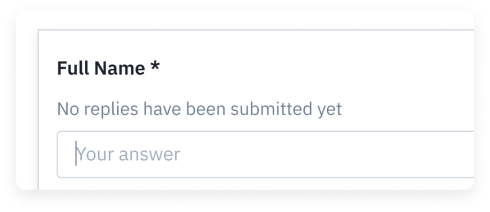
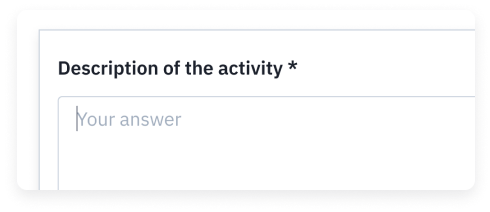
[feat/ch1231] (WIP) Added new type SHORT_TEXT
Compose site is done, need to fix the recipient view

diff --git a/client/components/petition-compose/PetitionFieldTypeSelectDropdown.tsx b/client/components/petition-compose/PetitionFieldTypeSelectDropdown.tsx
@@ -53,6 +53,7 @@ export const PetitionFieldTypeSelect = chakraForwardRef<
 
 export const FIELD_TYPES: PetitionFieldType[] = [
   "FILE_UPLOAD",
+  "SHORT_TEXT",
   "TEXT",
   "SELECT",
   "DYNAMIC_SELECT",
@@ -238,6 +239,7 @@ export const PetitionFieldTypeSelectDropdown = chakraForwardRef<
                 },
                 { type: activeTypeLabel }
               )}
+              loading="eager"
               src={`${process.env.NEXT_PUBLIC_ASSETS_URL}/static/images/field-types/${activeType}_${locale}.png`}
             />
           </AspectRatio>
@@ -253,7 +255,26 @@ export const PetitionFieldTypeSelectDropdown = chakraForwardRef<
             ) : activeType === "TEXT" ? (
               <FormattedMessage
                 id="component.petition-field-type-select-dropdown.text-description"
-                defaultMessage="Obtain written information that is not stored in documents or other files."
+                defaultMessage="Allow the recipient to write down everything they need.<i>e.g: Descriptions, observations...</i>"
+                values={{
+                  i: (chunks: any[]) => (
+                    <Text mt={1} as="p">
+                      <i>{chunks}</i>
+                    </Text>
+                  ),
+                }}
+              />
+            ) : activeType === "SHORT_TEXT" ? (
+              <FormattedMessage
+                id="component.petition-field-type-select-dropdown.short-text-description"
+                defaultMessage="Allow the recipient to reply briefly.<i>e.g: Name, ID number...</i>"
+                values={{
+                  i: (chunks: any[]) => (
+                    <Text mt={1} as="p">
+                      <i>{chunks}</i>
+                    </Text>
+                  ),
+                }}
               />
             ) : activeType === "FILE_UPLOAD" ? (
               <FormattedMessage

diff --git a/client/components/petition-compose/PetitionComposeFieldSettings.tsx b/client/components/petition-compose/PetitionComposeFieldSettings.tsx
@@ -111,7 +111,7 @@ export function PetitionComposeFieldSettings({
           <HeadingSettings field={field} onFieldEdit={onFieldEdit} />
         ) : field.type === "FILE_UPLOAD" ? (
           <FileUploadSettings field={field} onFieldEdit={onFieldEdit} />
-        ) : field.type === "TEXT" ? (
+        ) : field.type === "TEXT" || field.type === "SHORT_TEXT" ? (
           <TextSettings field={field} onFieldEdit={onFieldEdit} />
         ) : field.type === "SELECT" ? (
           <SelectOptionSettings field={field} onFieldEdit={onFieldEdit} />
@@ -217,36 +217,6 @@ function TextSettings({
 
   return (
     <Stack spacing={4}>
-      <SettingsRow
-        label={
-          <FormattedMessage
-            id="field-settings.text-multiline-label"
-            defaultMessage="Multi-line"
-          />
-        }
-        description={
-          <Text fontSize="sm">
-            <FormattedMessage
-              id="field-settings.text-multiline-description"
-              defaultMessage="Enabling this will display a multi-line input field instead of a single line."
-            />
-          </Text>
-        }
-        controlId="text-multiline"
-      >
-        <Switch
-          height="20px"
-          display="block"
-          id="text-multiline"
-          color="green"
-          isChecked={options.multiline}
-          onChange={(event) =>
-            onFieldEdit(field.id, {
-              options: { ...field.options, multiline: event.target.checked },
-            })
-          }
-        />
-      </SettingsRow>
       <SettingsRowPlaceholder
         placeholder={placeholder}
         onChange={handlePlaceholderChange}

diff --git a/server/src/graphql/petition/types/core.ts b/server/src/graphql/petition/types/core.ts
@@ -258,6 +258,7 @@ export const PetitionFieldType = enumType({
   members: [
     { name: "FILE_UPLOAD", description: "A file upload field." },
     { name: "TEXT", description: "A text field." },
+    { name: "SHORT_TEXT", description: "A short text field." },
     { name: "HEADING", description: "A heading field." },
     { name: "SELECT", description: "A select field." },
     { name: "DYNAMIC_SELECT", description: "A dynamic select field." },
@@ -561,6 +562,7 @@ export const PetitionFieldReply = objectType({
       resolve: async (root, _, ctx) => {
         switch (root.type) {
           case "TEXT":
+          case "SHORT_TEXT":
           case "SELECT":
           case "DYNAMIC_SELECT": {
             return root.content;
@@ -571,11 +573,11 @@ export const PetitionFieldReply = objectType({
             );
             return file
               ? {
-                  filename: file.filename,
-                  size: file.size,
-                  contentType: file.content_type,
-                  extension: extension(file.content_type) || null,
-                }
+                filename: file.filename,
+                size: file.size,
+                contentType: file.content_type,
+                extension: extension(file.content_type) || null,
+              }
               : {};
           }
           default:

diff --git a/client/utils/petitionFields.ts b/client/utils/petitionFields.ts
@@ -15,6 +15,10 @@ export type FieldOptions = {
   FILE_UPLOAD: {
     accepts: Maybe<FileUploadAccepts[]>;
   };
+  SHORT_TEXT: {
+    multiline: boolean;
+    placeholder: Maybe<string>;
+  };
   TEXT: {
     multiline: boolean;
     placeholder: Maybe<string>;
@@ -44,10 +48,15 @@ export function usePetitionFieldTypeLabel(type: PetitionFieldType) {
           id: "petition.field-type.file-upload",
           defaultMessage: "Documents and files",
         });
+      case "SHORT_TEXT":
+        return intl.formatMessage({
+          id: "petition.field-type.short-text",
+          defaultMessage: "Short replies",
+        });
       case "TEXT":
         return intl.formatMessage({
           id: "petition.field-type.text",
-          defaultMessage: "Text reply",
+          defaultMessage: "Text replies",
         });
       case "HEADING":
         return intl.formatMessage({
@@ -75,6 +84,7 @@ export function usePetitionFieldTypeColor(type: PetitionFieldType) {
   return ({
     FILE_UPLOAD: theme.colors.teal[400],
     TEXT: theme.colors.yellow[400],
+    SHORT_TEXT: theme.colors.yellow[500],
     HEADING: theme.colors.blue[400],
     SELECT: theme.colors.pink[400],
     DYNAMIC_SELECT: theme.colors.pink[600],

diff --git a/server/src/db/helpers/fieldOptions.ts b/server/src/db/helpers/fieldOptions.ts
@@ -16,6 +16,19 @@ const SCHEMAS = {
       },
     },
   },
+  SHORT_TEXT: {
+    type: "object",
+    required: ["multiline", "placeholder"],
+    additionalProperties: false,
+    properties: {
+      multiline: {
+        type: "boolean",
+      },
+      placeholder: {
+        type: ["string", "null"],
+      },
+    },
+  },
   FILE_UPLOAD: {
     type: "object",
     required: ["accepts"],
@@ -132,6 +145,15 @@ export function defaultFieldOptions(
         multiple: false,
         options: {
           multiline: true,
+          placeholder: null,
+        },
+      };
+    case "SHORT_TEXT":
+      return {
+        optional: false,
+        multiple: false,
+        options: {
+          multiline: false,
           placeholder: null,
         },
       };

diff --git a/server/src/db/__types.ts b/server/src/db/__types.ts
@@ -59,6 +59,7 @@ export type PetitionFieldType =
   | "FILE_UPLOAD"
   | "HEADING"
   | "SELECT"
+  | "SHORT_TEXT"
   | "TEXT";
 
 export type PetitionMessageStatus =
@@ -601,8 +602,8 @@ export interface PetitionFieldReply {
   deleted_by: Maybe<string>; // varchar
   petition_access_id: Maybe<number>; // int4
   status: PetitionFieldReplyStatus; // petition_field_reply_status
-  metadata: any; // jsonb
   user_id: Maybe<number>; // int4
+  metadata: any; // jsonb
 }
 
 export type CreatePetitionFieldReply = PartialProps<
@@ -615,8 +616,8 @@ export type CreatePetitionFieldReply = PartialProps<
   | "deleted_by"
   | "petition_access_id"
   | "status"
-  | "metadata"
   | "user_id"
+  | "metadata"
 >;
 
 export interface PetitionMessage {

diff --git a/client/components/recipient-view/fields/RecipientViewPetitionField.tsx b/client/components/recipient-view/fields/RecipientViewPetitionField.tsx
@@ -23,7 +23,7 @@ export function RecipientViewPetitionField(
 ) {
   return props.field.type === "HEADING" ? (
     <RecipientViewPetitionFieldHeading field={props.field} />
-  ) : props.field.type === "TEXT" ? (
+  ) : props.field.type === "TEXT" || props.field.type === "SHORT_TEXT" ? (
     <RecipientViewPetitionFieldText {...props} />
   ) : props.field.type === "SELECT" ? (
     <RecipientViewPetitionFieldSelect {...props} />

diff --git a/client/components/petition-replies/PetitionRepliesFieldReply.tsx b/client/components/petition-replies/PetitionRepliesFieldReply.tsx
@@ -46,7 +46,9 @@ export function PetitionRepliesFieldReply({
   onAction,
 }: PetitionRepliesFieldReplyProps) {
   const intl = useIntl();
-  const isTextLikeType = ["TEXT", "SELECT"].includes(reply.field!.type);
+  const isTextLikeType = ["TEXT", "SHORT_TEXT", "SELECT"].includes(
+    reply.field!.type
+  );
   return (
     <Flex>
       <Box paddingRight={2} borderRight="2px solid" borderColor="gray.200">

diff --git a/client/components/recipient-view/fields/RecipientViewPetitionFieldText.tsx b/client/components/recipient-view/fields/RecipientViewPetitionFieldText.tsx
@@ -259,6 +259,7 @@ export const RecipientViewPetitionFieldReplyText = forwardRef<
   const options = field.options as FieldOptions["TEXT"];
   const debouncedUpdateReply = useDebouncedCallback(
     async (value: string) => {
+      console.log("debouncedUpdateReply: ", value);
       setIsSaving(true);
       try {
         await onUpdate(value.trim());

diff --git a/server/migrations/20210427150631_add-short-text.ts b/server/migrations/20210427150631_add-short-text.ts
@@ -1,0 +1,10 @@
+import { Knex } from "knex";
+import { addFieldType, removeFieldType } from "./helpers/fieldTypes";
+
+export async function up(knex: Knex): Promise<void> {
+    await addFieldType(knex, "SHORT_TEXT");
+}
+
+export async function down(knex: Knex): Promise<void> {
+    await removeFieldType(knex, "SHORT_TEXT");
+}

diff --git a/client/components/petition-common/PetitionFieldTypeIcon.tsx b/client/components/petition-common/PetitionFieldTypeIcon.tsx
@@ -20,6 +20,7 @@ export const PetitionFieldTypeIcon = chakraForwardRef<
 >(function PetitionFieldTypeIcon({ type, ...props }, ref) {
   const icon = ({
     FILE_UPLOAD: FieldFileUploadIcon,
+    SHORT_TEXT: FieldTextIcon,
     TEXT: FieldTextIcon,
     HEADING: FieldHeadingIcon,
     SELECT: FieldSelectIcon,

diff --git a/client/graphql/__types.ts b/client/graphql/__types.ts
@@ -1251,6 +1251,8 @@ export type PetitionFieldType =
   | "HEADING"
   /** A select field. */
   | "SELECT"
+  /** A short text field. */
+  | "SHORT_TEXT"
   /** A text field. */
   | "TEXT";
 
